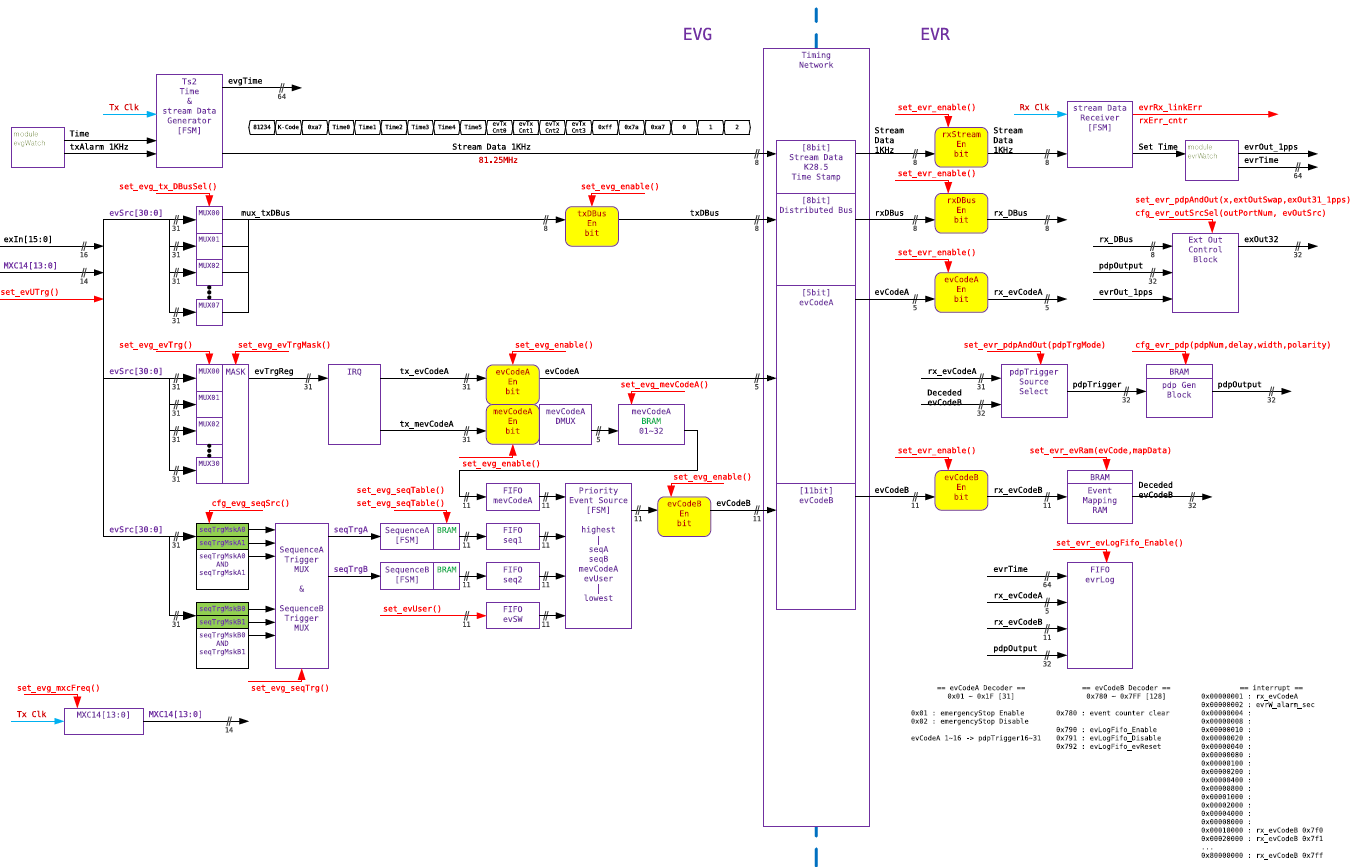
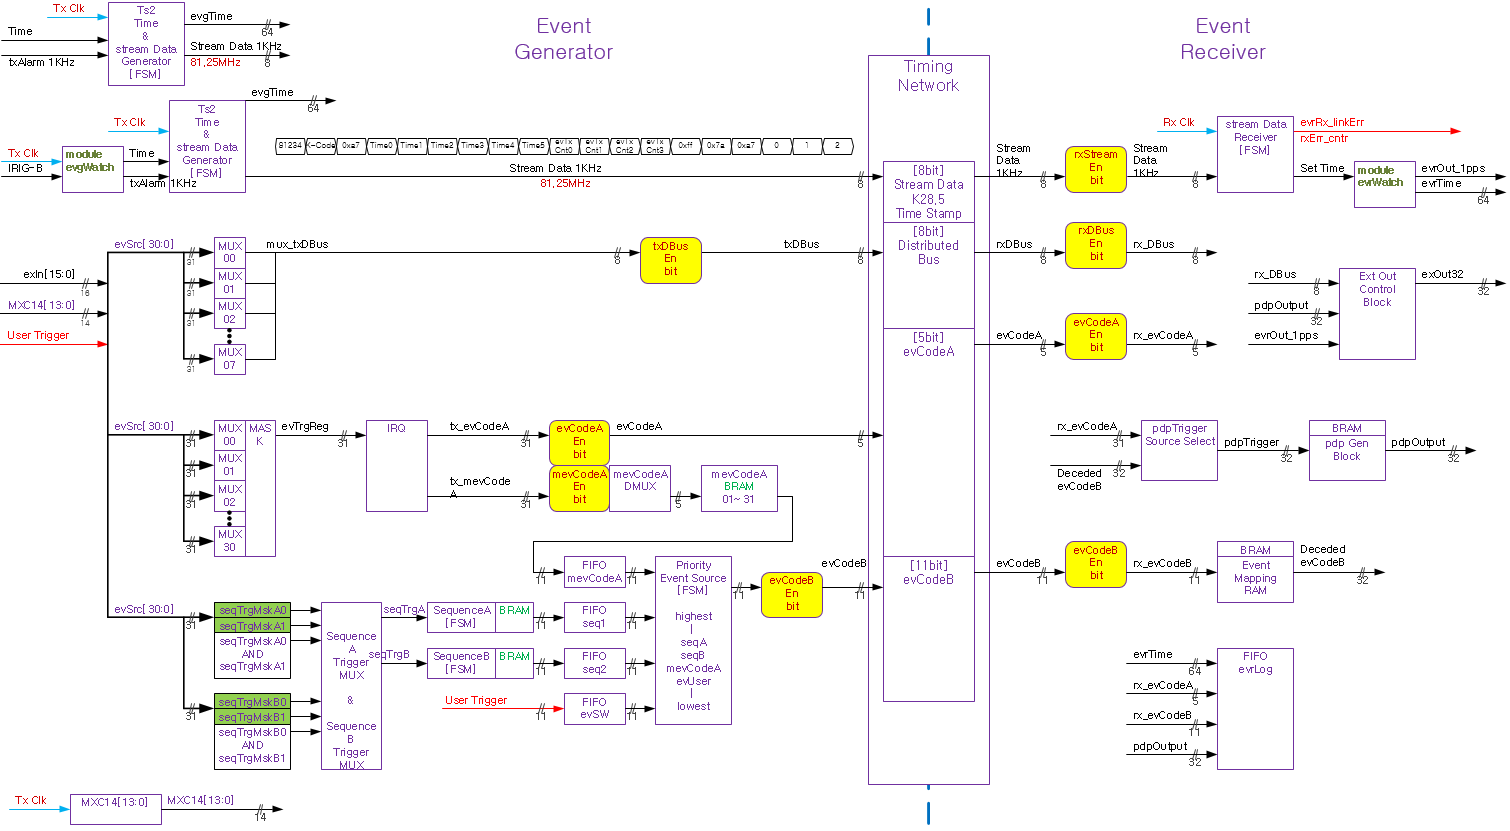
ICABU2018 10/30, edited

diff --git a/TechNote/ICABU2018/ICABU2018_Paper_Timing_System_RAON_Operation.tex b/TechNote/ICABU2018/ICABU2018_Paper_Timing_System_RAON_Operation.tex
@@ -106,7 +106,7 @@ The requirements for developing the RAON timing system are as follows:
 \end{figure*}
 
 \section{Development}
-Fig.~\ref{timing_overview} shows a overview of the RAON timing system. Before the RF signal is amplified, the clock signal from the RF master oscillator is synchronized with the 1PPS signal of GPS. The EVG module receives the reference clock and the 1 PPS IRIG-B signal from the 2 port of RTM board. The timing stream data of EVG module is transmited at the optical speed of 3.25 Gbps data link (40bits * 81.25 MHz), and the time accuracy for the timestamp sychronization is less than 1 micro-second. The EVG provides the events with timestamp to Chopper, LLRF, beam diagnostics equipments, and any other devices needed the timing event. The parameters of three sub-modules of the timing system are integrated with EPICS middleware over ethernet. Each IOC server is synchronized its time with the time server within 1 milli-second using NTP over ethernet. The RAON timing system was developed using Xilinx’s programmable SoC (Zynq) with built-in ARM processor and FPGA logic. Zynq of Xilinx FPGA series is divided into Programmable Logic (PL) and Processing System (PS). PS with the dual-core ARM CortexA9 processor is performing the high-level control logic at run-time on linux operating system. PL with the low-level Field Programmable Gate Array (FPGA) is connecting with a lot of I/O peripherals for real-time control system. In order to set up the timing parameters connected with the higher control system, EPICS (Experimental Physics and Industrial Control System) middleware is equipped on the linux operating system of the Zynq PS. EPICS is a set of open-source-based software tools which supports for the Ethernet-based middleware layer. An interface between the Zynq PS and PL is interconnected with AMBA4 AXI. The event generator (EVG) of RAON timing system receives 16 TTL inputs, generates event codes and sends those to the specific timing optical network. The event fan-out (EVF) of the timing system provides the ability to distribute up to 24 ports (SFP fiber optical) on the timing network. The event receiver (EVR) should be synchronized with the event generator and provides the capability to generate up to 32 TTL pulses. 
+Fig.~\ref{timing_overview} shows a overview of the RAON timing system. Before the RF signal is amplified, the clock signal from the RF master oscillator is synchronized with the 1PPS signal of GPS. The EVG module receives the RF reference clock and the 1 PPS IRIG-B signal from the 2 port of RTM board. The timing stream data of EVG module is transmited at the optical speed of 3.25 Gbps data link (40bits * 81.25 MHz), and the time accuracy for the timestamp synchronization is less than 1 micro-second. The EVG provides the events with timestamp to Chopper, LLRF, beam diagnostics equipments, and any other devices needed the timing event. The parameters of three sub-modules of the timing system are integrated with EPICS middleware over ethernet. Each IOC server is synchronized its time with the time server within 1 milli-second using NTP over ethernet. The RAON timing system was developed using Xilinx’s programmable SoC (Zynq) with built-in ARM processor and FPGA logic. Zynq of Xilinx FPGA series is divided into Programmable Logic (PL) and Processing System (PS). PS with the dual-core ARM CortexA9 processor is performing the high-level control logic at run-time on linux operating system. PL with the low-level Field Programmable Gate Array (FPGA) is connecting with a lot of I/O peripherals for real-time control system. In order to set up the timing parameters connected with the higher control system, EPICS (Experimental Physics and Industrial Control System) middleware is equipped on the linux operating system of the Zynq PS. EPICS is a set of open-source-based software tools which supports for the Ethernet-based middleware layer. An interface between the Zynq PS and PL is interconnected with AMBA4 AXI. The event generator (EVG) of RAON timing system receives 16 TTL inputs, generates event codes and sends those to the specific timing optical network. The event fan-out (EVF) of the timing system provides the ability to distribute up to 24 ports (SFP fiber optical) on the timing network. The event receiver (EVR) should be synchronized with the event generator and provides the capability to generate up to 32 TTL pulses. 
 \subsection{Timing System Hardware}
 As shown in Fig.~\ref{timng_hardware} the RAON timing system of 1U size is made of LCD, fan, power supply, backplane, FPGA Zynq SoC (with FMC SFP 2 port), RTM board, and TTL I/O module or SFP module. It can be divided into EVG-EVR module and EVF module according to the hardware configuration. The EVG-EVR module is built using a TTL I/O module shown in Fig.~\ref{timng_hardware}, and the EVF module is constructed by mountig an SFP module instead of it. The mode of the EVG-EVR module has EVG, EVR, or EVS mode by software definitions at hardware initialization. The front LCD panel displays the link status of the optical timing network, the EPICS IOC status, and the synchronized timestamp.
 
@@ -125,7 +125,7 @@ The timing data (32bit) is transmitted with an external clock of 81.25 MHz (RF r
 	\centering
 	\includegraphics*[width=1\textwidth, height=0.5\textwidth]{img1-1.png}
 	%	\includegraphics*[width=0.7\textwidth, height=1\textwidth, angle=90]{img1-2.png}
-	\caption{Timing Data Structure}
+	\caption{Timing System Logic Flow}
 	\label{timing_data_structure}
 \end{figure*}
 
@@ -254,7 +254,7 @@ The signal outputs (exOut32) of the event receiver is the final output sent to t
 		\textbf{Output}	& \textbf{Source 1}				& \textbf{Source 2}\\
 		\hline
 		0 $\sim$ 7			& DBus 0 $\sim$ 7			& pdbOutput 0 $\sim$ 7\\
-		8 $\sim$ 30			& pdpOutput 8 $\sim$ 30     \\
+		8 $\sim$ 30			& pdpOutput 8 $\sim$ 30     & pdpOutput 8 $\sim$ 30 \\
 		31				& 1PPS evrOut					& pdbOutput 31\\        								
 		\hline
 	\end{tabular}
@@ -323,12 +323,12 @@ The timing data generated from the EVG is distributed by the EVF. The FMC1 and F
 To protect the superconducting accelerating module, the machine protection system (MPS) should operate within 50μs from the detection of the abnormal signal of the beam to the transmission of the beam shut-off signal. This beam shut-off signal is called a post-mortem signal in terms of the timing system. Each diagnostic and local device that receives the post-mortem signal generates a log of some data area before and after the signal. The first port of the EVG's external inputs and a specific event number (0x??) defines this as a post-mortem signal and pass it to each system.
 
 \subsection{Software}
-The software block diagram in which the RAON timing sytem operates is shown in Fig.~\ref{timing_sw_block}.
+The software block diagram in which the RAON timing sytem operates is shown in Fig.~\ref{timing_sw_block}. In Fig. ~\ref{timing_sw_block}, the ts2gtp FPGA logic block, which is connected to the timing network, sends and receives the timing stream data. The ts2ev logic block generates and decodes the stream data. The configurable parameters and waveform parameters to perform the logic store in BRAM and DDR memory.  The memory area is connected with the user space through the linux kernel device driver using AXI interface. It is linked with EPICS middleware through the layered modules of the user space of linux.
 
 
 \begin{figure}[!htb]
 	\centering
-	\includegraphics*[width=0.42\textwidth, height=0.35\textwidth]{img24.png}
+	\includegraphics*[width=0.4\textwidth, height=0.25\textwidth]{img24.png}
 	\caption{Timing System Software Block Diagram}
 	\label{timing_sw_block}
 \end{figure}
@@ -366,12 +366,17 @@ TABLE \ref{sw-conf} shows the software modules needed to develop the RAON timing
 	\end{tabular}
 \end{table}
 
-\subsection{Timestamp Synchronization}
+
+\section{Timing Structure Scenario}
+The beam commissioning of the RAON accelerator proceeds to the pulse mode. For safe commissioning of the RAON, the timing system distributes the control signal in single event mode. After that, a repetitive signal of 1 Hz is distributed to each system as shown Fig. timing structure. Fig. [] shows a possible timing structure scenario for the SCL3 beam commissioning. The timing system can be configurable 1 Hz repetition rate with 1 \% duty factor and the time accuracy is 12.3ns (=81.25MHz, minimum pulse length) satisfying requirement ( $\sim$ 1s).
 
 
-\hfill\break
-
-\section{Timing Structure for RAON Operation}
+\begin{figure}[!htb]
+	\centering
+	\includegraphics*[width=0.45\textwidth, height=0.35\textwidth]{schedule.png}
+	\caption{1Hz Timing Schedule Scenario for SCL3 Beam Commissioning}
+	\label{schedule}
+\end{figure}
 
 \section{Results}
 The test bench configuration for the performance and result test of the developed RAON timing system is shown in Fig.~\ref{timing_testbench} below. The EVG connected with the RF signal generator and the GPS server generates the events cofigurable by an operator and delivers them to the three EVRs through EVF.
@@ -381,6 +386,23 @@ The test bench configuration for the performance and result test of the develope
 	\includegraphics*[width=0.45\textwidth, height=0.12\textwidth]{img18.png}
 	\caption{Timing Testbench Configuration}
 	\label{timing_testbench}
+\end{figure}
+
+\subsection{Timing Accuracy Test}
+
+\begin{figure}[!htb]
+	\centering
+	\includegraphics*[width=0.35\textwidth, height=0.15\textwidth]{accuracy.png}
+	\caption{Time Accuracy}
+	\label{accuracy}
+\end{figure}
+
+
+\begin{figure}[!htb]
+	\centering
+	\includegraphics*[width=0.45\textwidth, height=0.35\textwidth]{1hz_scenario.png}
+	\caption{Time Scenario}
+	\label{scenario}
 \end{figure}
 
 \subsection{Multiplexed Counter Generation and Distributed Bus Transmission Test}
@@ -438,40 +460,8 @@ Overview of the Rare Isotope Science Project of the Institute for Basic Science,
 \bibitem{risp} Y.~K.~Kwon, {\it et. al},``Status of Rare Isotope Science Project in Korea'',
 Few-Body Syst 54, 961-966, (2013).
 
-
-\bibitem{opencl}
-OpenCL, https://www.khronos.org/opencl/
-
-\bibitem{analog}
-Analog Devices website, http://www.analog.com
-
-\bibitem{linaro}
-Linaro Document website, https://en.wikipedia.org/wiki/Linaro
-
-\bibitem{u-boot}
-U-Boot Document website, http://www.denx.de/wiki/U-Boot
-
-\bibitem{busybox}
-Busybox Document website, http://www.busybox.net/
-
-
-\bibitem{iio}
-Industrial I/O Document website, https://wiki.analog.com/resources/tools-software/linux-software/libiio
-
 \bibitem{sdsoc}
 SDSoC Document,\\ http://www.xilinx.com/support/documentation/sw\_manuals/xilinx2016\_1/ug1146-sdsoc-platforms-and-libraries.pdf
-
-\bibitem{opencl_wiki}
-OpenCL Definition, https://en.wikipedia.org/wiki/OpenCL
-
-\bibitem{epics_v4}
-EPICS Version 4, http://epics-pvdata.sourceforge.net/
-
-\bibitem{epics_v4_normative}
-EPICS Version 4 Normative Types,\\ http://epics-pvdata.sourceforge.net/docbuild/normativeTypesCPP/tip/\\documentation/ntCPP.html
-
-\bibitem{opencl_on_altera}
-OpenCL on Altera, https://www.altera.com/en\_US/pdfs/literature/wp/wp-01173-opencl.pdf
 
 \end{thebibliography}
 
